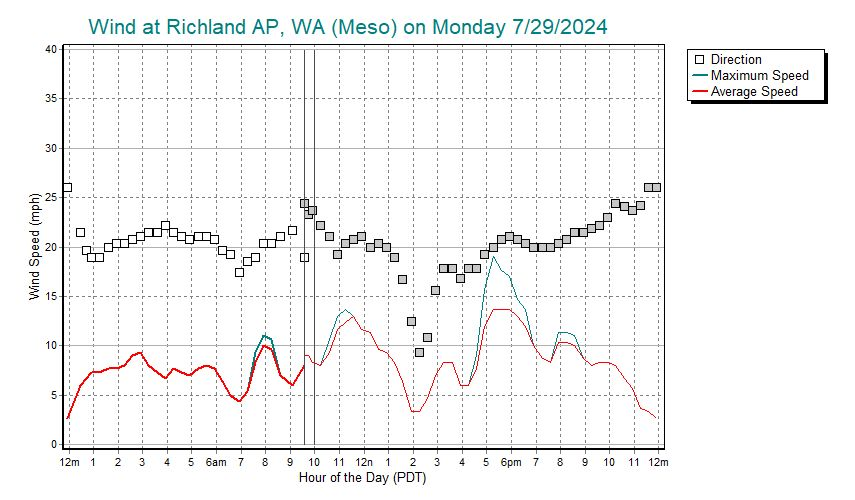
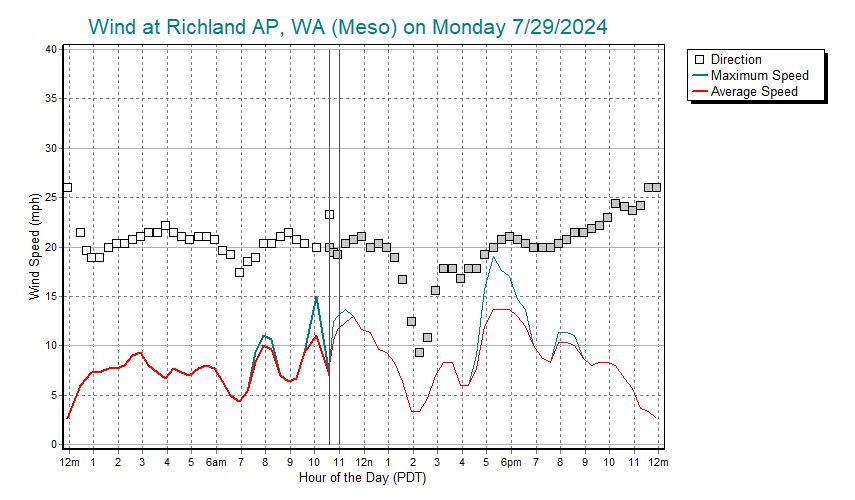
another update

Changed region(s): [[0.3345, 0.57, 0.3953, 0.78], [0.3345, 0.39, 0.3953, 0.51]]

diff --git a/charts.html b/charts.html
@@ -88,7 +88,7 @@
 	<p><b><font face="Arial" size="5">Samples from Rosy.asp</font></b></p>
    </div>
    <p><span>
-(24-hour charts updated Monday, July 29, 2024 at 12:00PM Central).
+(24-hour charts updated Monday, July 29, 2024 at 01:00PM Central).
    </span></p>
    <p>The orginal ASP page is named Rosy, a nickname windsurfers from the Tri-Cities gave Roosevelt, a sailing site on the east end of the Columbia River gorge.</p>
 	<p>This first pair of sample charts, wind and temperature, is updated every 

diff --git a/charts_input.html b/charts_input.html
@@ -88,7 +88,7 @@
 	<p><b><font face="Arial" size="5">Samples from Rosy.asp</font></b></p>
    </div>
    <p><span>
-(24-hour charts updated Monday, July 29, 2024 at 12:00PM Central).
+(24-hour charts updated Monday, July 29, 2024 at 01:00PM Central).
    </span></p>
    <p>The orginal ASP page is named Rosy, a nickname windsurfers from the Tri-Cities gave Roosevelt, a sailing site on the east end of the Columbia River gorge.</p>
 	<p>This first pair of sample charts, wind and temperature, is updated every 
